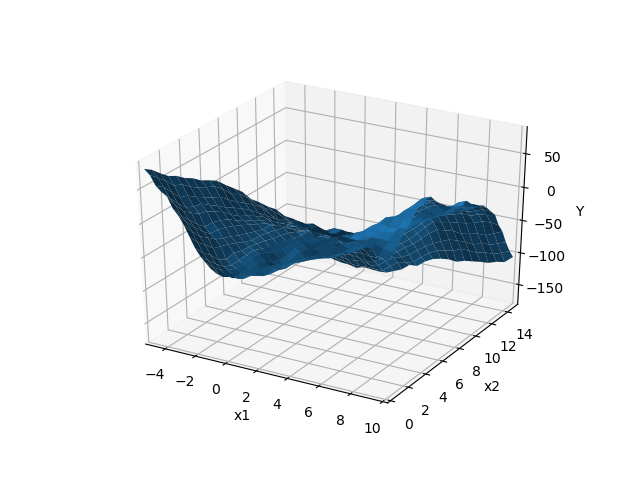
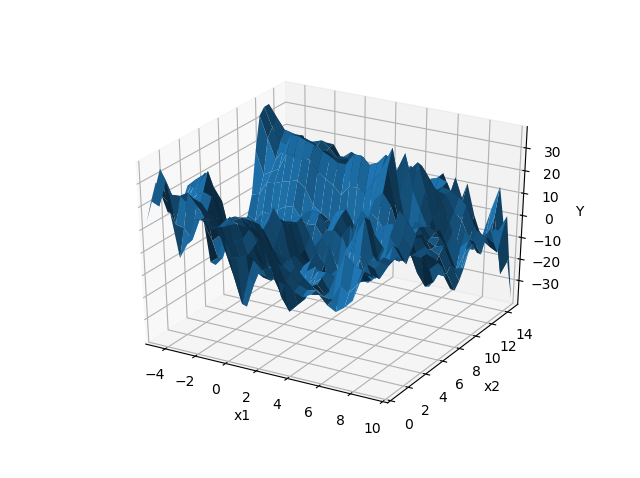
1D updates_single&coregionalized

diff --git a/main.py b/main.py
@@ -45,12 +45,18 @@ import perturb as pb
 # 01 1D Toy Gaussian Process
 #####################################################
 
+#==================================
+# 01_1 1D single process example
+#==================================
+
 # Experimental taste of the Gaussian Process (GP) regression
-# Sample data from a sin/cos conjunctions
-X = np.linspace(0.05,0.95,10)[:,None]
-Y = -np.cos(np.pi*X) +np.sin(4*np.pi*X) + np.random.randn(10,1)*0.05
+# Sample data from a sinusoidal function
+X = np.random.rand(10)[:,None]; X=X*15-5
+Y = np.sin(X/2.) + np.random.randn(len(X),1)*0.05
 pl.figure()
 pl.plot(X,Y,'kx',mew=1.5)
+plt.xlim([-6., 11])
+plt.ylim([-2., 2.])
 
 # Specify the kernel and model
 k = GPy.kern.RBF(input_dim=1, variance=1., lengthscale=1.)
@@ -60,7 +66,7 @@ m.plot()
 # Manually optimize the model and show trained parameters
 m['.*var']=2.
 m['.*leng']=0.5
-m['Gaussian_noise.variance']=0.001
+m['Gaussian_noise.variance']=0.02
 m.plot()
 print(m)
 
@@ -70,7 +76,7 @@ m.plot()
 print(m)
 
 # Posterior realizations of the optimized model
-testX = np.linspace(0, 1, 101).reshape(-1, 1)
+testX = np.linspace(-5., 15., 1000).reshape(-1, 1)
 posteriorTestY = m.posterior_samples_f(testX, full_cov=True, size=3).reshape(-1,3) # Draw 3 realizations
 simY, simMse = m.predict(testX)
 
@@ -78,6 +84,46 @@ plt.plot(testX, posteriorTestY, linewidth=.5)
 plt.plot(X, Y, 'ok', markersize=4)
 plt.plot(testX, simY - 3 * simMse ** 0.5, '--g', linewidth=.5)
 plt.plot(testX, simY + 3 * simMse ** 0.5, '--g', linewidth=.5)
+
+
+#==================================
+# 01_2 1D coregionalized Gaussian Process
+#==================================
+
+# Experimental taste of 1D coregionalized Gaussian Process (GP) regression
+# Sample data from exactly the same sinusoidal function as above
+X1 = np.random.rand(10)[:,None]; X1=X1*12-5  # Process 1
+X2 = np.random.rand(8)[:,None]; X2=X2*6+4  # Process 2
+
+Y1 = np.sin(X1/2.) + np.random.randn(len(X1),1)*0.05  # From same function as above
+Y2 = np.sin(X2/2.) + np.random.randn(len(X2),1)*0.05
+
+plt.plot(X1,Y1,'kx', X2,Y2,'rx')
+plt.xlim([-6., 11])
+plt.ylim([-2., 2.])
+
+# Coregionalized Gaussian Process
+K = GPy.kern.RBF(1)
+icm = GPy.util.multioutput.ICM(input_dim=1,num_outputs=2,kernel=K)
+m = GPy.models.GPCoregionalizedRegression([X1,X2],[Y1,Y2],kernel=icm)
+m.optimize()
+
+# Plot
+xlim = (-6., 11); ylim = (-2., 2.)
+def plot_2outputs(m,xlim,ylim):
+    fig = pl.figure(figsize=(12,8))
+    #Output 1
+    ax1 = fig.add_subplot(211)
+    ax1.set_xlim(xlim)
+    ax1.set_title('Output 1')
+    m.plot(plot_limits=xlim,fixed_inputs=[(1,0)],which_data_rows=slice(0,len(X1)),ax=ax1)
+    #ax1.plot(X1[:,:1],Y1,'rx',mew=1.5)
+    #Output 2
+    ax2 = fig.add_subplot(212)
+    ax2.set_xlim(xlim)
+    ax2.set_title('Output 2')
+    m.plot(plot_limits=xlim,fixed_inputs=[(1,1)],which_data_rows=slice(len(X1),len(X1)+len(X2)),ax=ax2)
+    ax2.plot(X2[:,:1],Y2,'rx',mew=1.5)
 
  
 #####################################################
